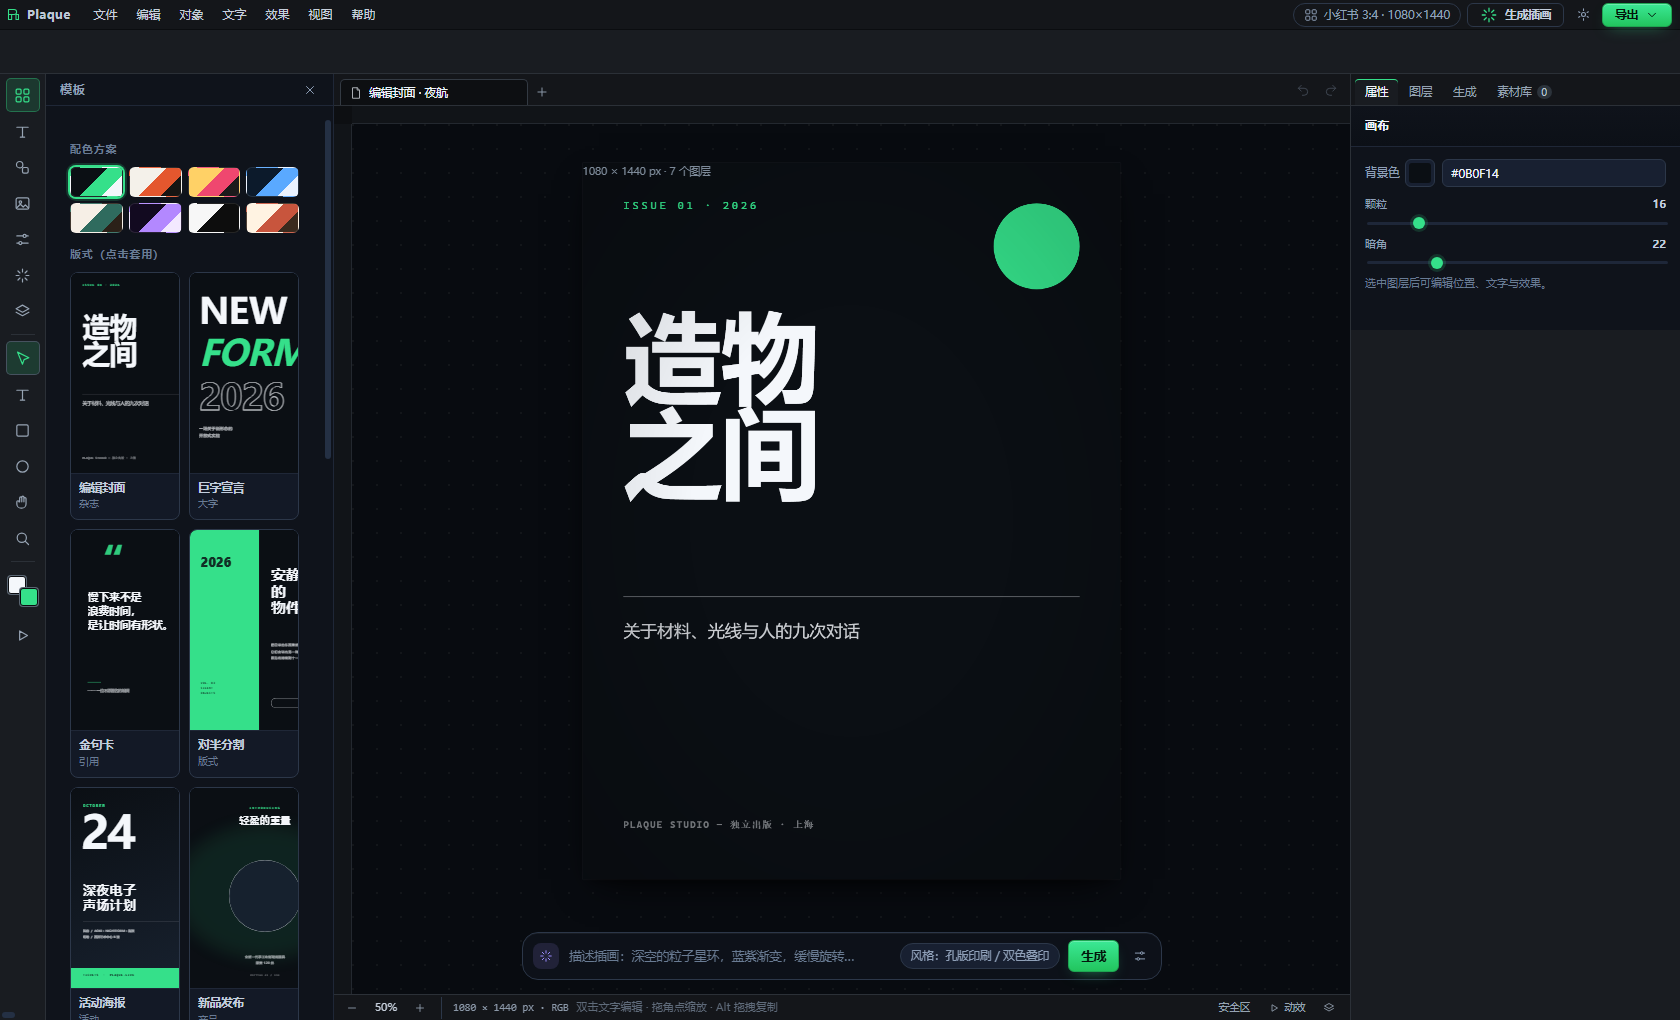
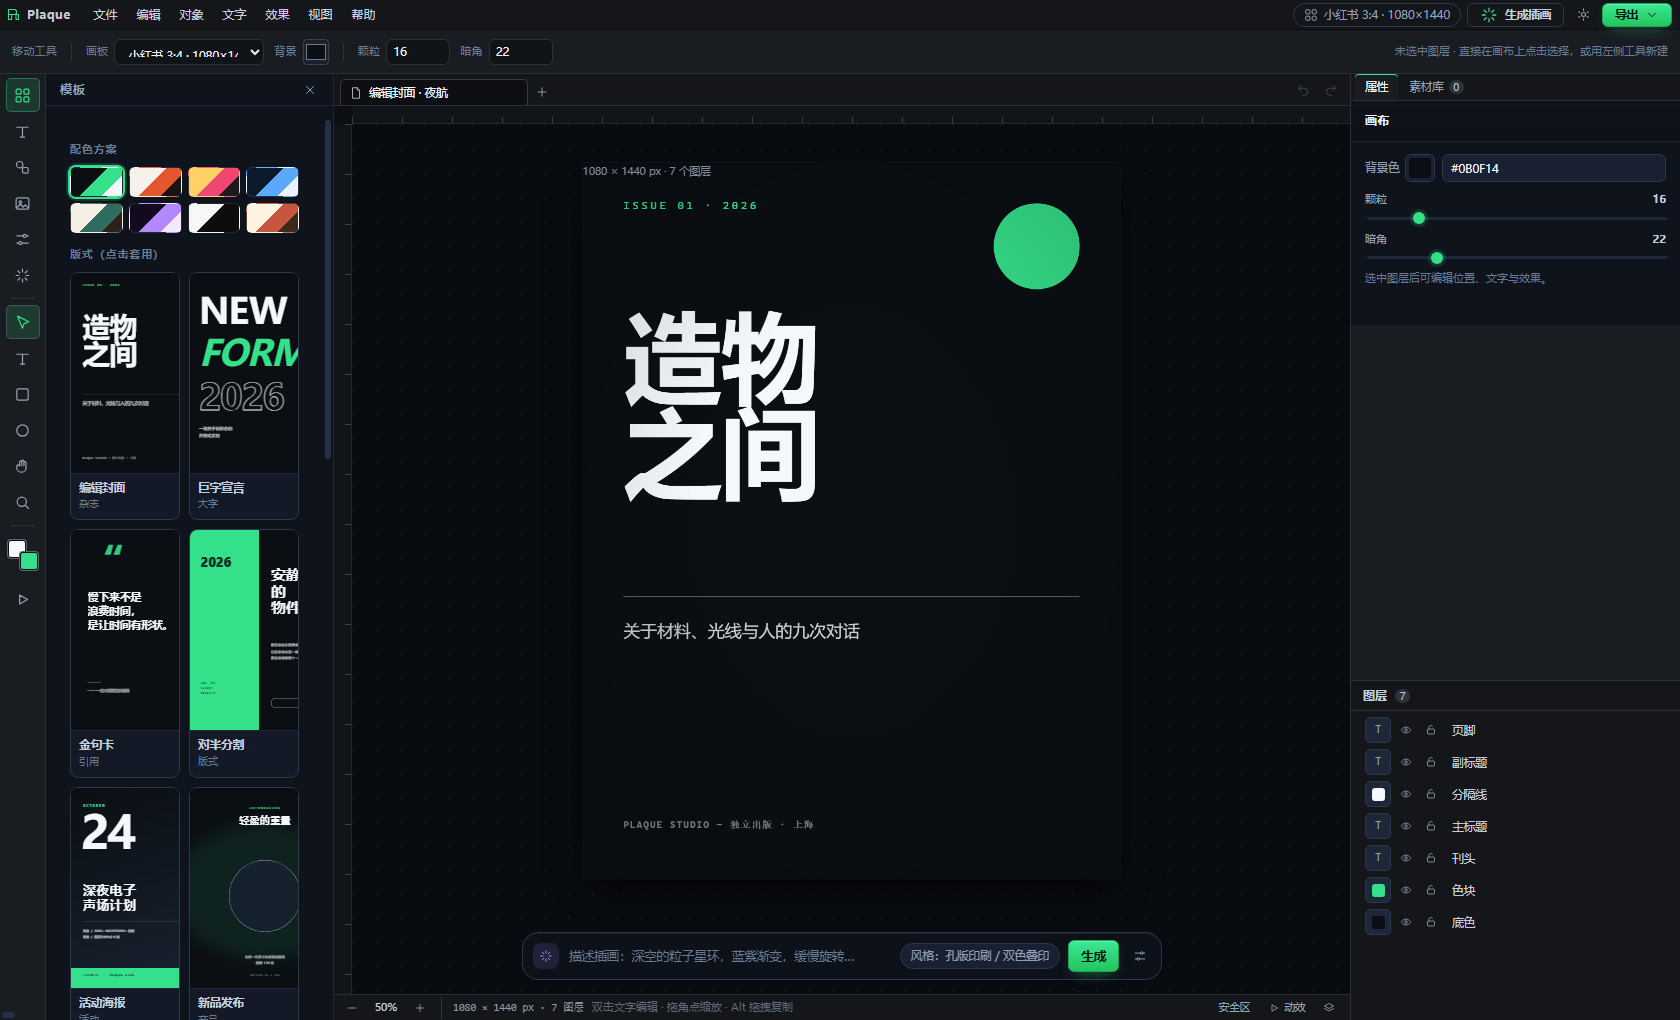
refactor(ui): 精简冗余入口 + 右侧面板上下分区（上 属性/素材库，下 常驻图层）

diff --git a/js/chrome.js b/js/chrome.js
@@ -316,19 +316,19 @@
 
   /* ---------------- 停靠面板 ---------------- */
   CH.setTab = function (name) {
+    if (name === 'layers') name = 'props';   // 图层区已常驻下方，不再作为标签
+    if (name === 'gen') name = 'props';
     CH.tab = name;
     $$('.dr-tab').forEach((t) => t.classList.toggle('is-active', t.dataset.tab === name));
     $$('.dr-pane').forEach((p) => p.classList.toggle('is-active', p.dataset.pane === name));
     const app = $('#app');
     if (app) { app.classList.remove('dock-closed'); }
-    if (name === 'layers') CH.renderLayers();
     if (name === 'arts') PANELS.renderDock();
   };
 
   CH.renderLayers = function () {
-    const host = $('#layersHost');
-    if (!host || !Store.doc) return;
-    if (PANELS.renderInto) PANELS.renderInto('layersHost', 'layers');
+    if (!Store.doc) return;
+    if (PANELS.renderLayerList) PANELS.renderLayerList('layersHost');
   };
 
   /* ---------------- 画布工具行为 ---------------- */
@@ -392,11 +392,7 @@
 
   function bindTools() {
     $$('.tb-btn[data-tool]').forEach((b) => b.addEventListener('click', () => setTool(b.dataset.tool)));
-    $$('.rail-btn').forEach((b) => {
-      if (b.dataset.panel === 'layers') {
-        b.addEventListener('click', (e) => { e.stopPropagation(); CH.setTab('layers'); }, true);
-      }
-    });
+
     document.addEventListener('keydown', (e) => {
       const t = e.target;
       if (t && /input|textarea|select/i.test(t.tagName)) return;
@@ -412,6 +408,42 @@
     if (btn) btn.addEventListener('click', () => { $('#app').classList.toggle('dock-closed'); ED.fit(); });
   }
 
+  /* 上下分区拖拽（拖动条在属性区与图层区之间） */
+  function bindSplit() {
+    const split = $('#drSplit');
+    const dock = $('#dockRight');
+    if (!split || !dock) return;
+    let startY = 0, startH = 0, dragging = false;
+    const bottomH = () => {
+      const el = $('#drBottom');
+      return el ? el.getBoundingClientRect().height : 340;
+    };
+    split.addEventListener('pointerdown', (e) => {
+      dragging = true;
+      startY = e.clientY;
+      startH = bottomH();
+      split.setPointerCapture(e.pointerId);
+      document.body.style.cursor = 'row-resize';
+      e.preventDefault();
+    });
+    split.addEventListener('pointermove', (e) => {
+      if (!dragging) return;
+      const h = U.clamp(startH - (e.clientY - startY), 120, dock.getBoundingClientRect().height - 160);
+      dock.style.setProperty('--layers-h', Math.round(h) + 'px');
+    });
+    const stop = () => {
+      if (!dragging) return;
+      dragging = false;
+      document.body.style.cursor = '';
+      U.saveLS('layersH', Math.round(bottomH()));
+    };
+    split.addEventListener('pointerup', stop);
+    split.addEventListener('pointercancel', stop);
+
+    const saved = Number(U.loadLS('layersH', 0));
+    if (saved > 120) dock.style.setProperty('--layers-h', saved + 'px');
+  }
+
   /* ---------------- 初始化 ---------------- */
   CH.init = function () {
     bindMenus();
@@ -419,6 +451,7 @@
     bindTools();
     bindStageTools();
     bindToggle();
+    bindSplit();
     setTool('select');
     CH.obRender();
     CH.statusRender();
@@ -426,16 +459,19 @@
     const setTabByHash = () => CH.setTab('props');
     setTabByHash();
 
+    CH.renderLayers();
+
     Store.on('doc', () => {
       CH.obRender();
       CH.statusRender();
-      if (CH.tab === 'layers') CH.renderLayers();
+      CH.renderLayers();
     });
     Store.on('sel', () => {
       CH.obRender();
       CH.statusRender();
+      CH.renderLayers();
     });
-    Store.on('history', () => CH.statusRender());
+    Store.on('history', () => { CH.statusRender(); CH.renderLayers(); });
 
     const zoomNow = ED.applyZoom;
     if (typeof zoomNow === 'function') {
@@ -453,3 +489,5 @@
 
   window.CHROME = CH;
 })();
+
+

diff --git a/index.html b/index.html
@@ -110,7 +110,6 @@
       <button class="rail-btn" data-panel="image" data-tip="图片"><svg class="i"><use href="#i-image"/></svg><span>图片</span></button>
       <button class="rail-btn" data-panel="effects" data-tip="特效"><svg class="i"><use href="#i-sliders"/></svg><span>效果</span></button>
       <button class="rail-btn rail-ai" data-panel="ai" data-tip="AI 插画"><svg class="i"><use href="#i-sparkle"/></svg><span>AI 插画</span></button>
-      <button class="rail-btn" data-panel="layers" data-tip="图层"><svg class="i"><use href="#i-layers"/></svg><span>图层</span></button>
       <span class="tb-sep"></span>
       <button class="tb-btn is-on" data-tool="select" data-tip="移动工具 (V)"><svg class="i"><use href="#i-arrow"/></svg></button>
       <button class="tb-btn" data-tool="text" data-tip="文字工具 (T)"><svg class="i"><use href="#i-type"/></svg></button>
@@ -188,35 +187,27 @@
       </footer>
     </main>
 
-    <!-- 右侧停靠面板 -->
+    <!-- 右侧停靠面板：上半区 属性/素材库，下半区 常驻图层 -->
     <aside class="dockright" id="dockRight">
-      <div class="dr-tabs" id="drTabs" role="tablist">
-        <button class="dr-tab is-active" data-tab="props">属性</button>
-        <button class="dr-tab" data-tab="layers">图层</button>
-        <button class="dr-tab" data-tab="gen">生成</button>
-        <button class="dr-tab" data-tab="arts">素材库<span class="dr-count" id="dockCount">0</span></button>
+      <div class="dr-top">
+        <div class="dr-tabs" id="drTabs" role="tablist">
+          <button class="dr-tab is-active" data-tab="props">属性</button>
+          <button class="dr-tab" data-tab="arts">素材库<span class="dr-count" id="dockCount">0</span></button>
+        </div>
+        <div class="dr-body">
+          <div class="dr-pane is-active" data-pane="props"><aside class="inspector" id="inspector" aria-label="属性面板"></aside></div>
+          <div class="dr-pane" data-pane="arts">
+            <div class="dock-head"><b>素材库</b><span class="dock-count" id="dockCount2">0</span></div>
+            <div class="dock-list dock-list-v" id="dockList"></div>
+          </div>
+        </div>
       </div>
-      <div class="dr-body">
-        <div class="dr-pane is-active" data-pane="props"><aside class="inspector" id="inspector" aria-label="属性面板"></aside></div>
-        <div class="dr-pane" data-pane="layers"><div class="inspector" id="layersHost"></div></div>
-        <div class="dr-pane" data-pane="gen">
-          <section class="gen-card" id="genCard">
-            <header class="gen-head">
-              <span class="gen-title"><svg class="i sm accent"><use href="#i-sparkle"/></svg>生成插画</span>
-              <span class="gen-model" id="genModel">本地算法</span>
-            </header>
-            <textarea id="genBrief" rows="3" placeholder="一句话描述，回车生成"></textarea>
-            <div class="gen-foot">
-              <select id="genStyle" aria-label="风格"></select>
-              <button class="btn primary sm" id="genRun">生成</button>
-            </div>
-            <p class="gen-tip">插画由大模型写 Canvas 代码生成，可播放、可导出视频。</p>
-          </section>
+      <div class="dr-split" id="drSplit" title="拖动调整高度"></div>
+      <div class="dr-bottom" id="drBottom">
+        <div class="dr-bottom-head">
+          <b>图层</b><span class="dr-count" id="layerCount">0</span>
         </div>
-        <div class="dr-pane" data-pane="arts">
-          <div class="dock-head"><b>素材库</b><span class="dock-count" id="dockCount2">0</span></div>
-          <div class="dock-list dock-list-v" id="dockList"></div>
-        </div>
+        <div class="layers-scroll" id="layersHost"></div>
       </div>
     </aside>
   </div>

diff --git a/js/panels.js b/js/panels.js
@@ -551,11 +551,7 @@
     const doc = Store.doc;
 
     const s0 = sec('AI 编程插画');
-    const cta = mk('button', 'btn primary block');
-    cta.innerHTML = svg('i-sparkle') + '打开生成器';
-    cta.addEventListener('click', () => openAi());
-    s0.appendChild(cta);
-    s0.appendChild(mk('p', 'p-tip', '插画由大模型直接写 Canvas 代码，不是文生图：可无限缩放、能播动画、能录成视频。'));
+    s0.appendChild(mk('p', 'p-tip', '插画由大模型直接写 Canvas 代码，不是文生图：可无限缩放、能播动画、能录成视频。完整设置走顶部「生成插画」或画布下缘的 prompt 条。'));
     box.appendChild(s0);
 
     const s1 = sec('本地算法插画（无需 Key）');
@@ -610,21 +606,14 @@
   /* =========================================================
      面板：图层
      ========================================================= */
-  function panelLayers() {
+  /* 图层列表（供「图层」停靠区与面板共用） */
+  function buildLayerList() {
     const doc = Store.doc;
-    const box = mk('div', 'p-stack');
-
-    const s0 = sec('画布');
-    s0.appendChild(color('背景色', doc.canvas.bg, (v) => canvasPatch({ bg: v })));
-    s0.appendChild(select('画板尺寸', DATA.FRAMES.map((f) => ({ id: f.id, name: f.name + ' · ' + f.w + '×' + f.h })), doc.frameId,
-      (v) => { Store.setFrame(DATA.frameById(v)); ED.fit(); PANELS.repaint(); }));
-    box.appendChild(s0);
-
-    const s1 = sec('图层（自下而上）');
     const list = mk('div', 'layer-list');
     const layers = doc.layers.slice().reverse();
     if (!layers.length) {
       list.appendChild(mk('p', 'p-tip', '还没有图层。从「模板」套个版式，或从「元素 / 文字」添加。'));
+      return list;
     }
     layers.forEach((l) => {
       const r = mk('div', 'layer-row' + (Store.sel.indexOf(l.id) >= 0 ? ' is-on' : ''));
@@ -676,7 +665,21 @@
       });
       list.appendChild(r);
     });
-    s1.appendChild(list);
+    return list;
+  }
+
+  function panelLayers() {
+    const doc = Store.doc;
+    const box = mk('div', 'p-stack');
+
+    const s0 = sec('画布');
+    s0.appendChild(color('背景色', doc.canvas.bg, (v) => canvasPatch({ bg: v })));
+    s0.appendChild(select('画板尺寸', DATA.FRAMES.map((f) => ({ id: f.id, name: f.name + ' · ' + f.w + '×' + f.h })), doc.frameId,
+      (v) => { Store.setFrame(DATA.frameById(v)); ED.fit(); PANELS.repaint(); }));
+    box.appendChild(s0);
+
+    const s1 = sec('图层（自下而上）');
+    s1.appendChild(buildLayerList());
     box.appendChild(s1);
 
     const s2 = sec('统计');
@@ -685,6 +688,20 @@
     box.appendChild(s2);
     return box;
   }
+
+  /* 只渲染图层列表到指定容器（右侧常驻「图层」区） */
+  PANELS.renderLayerList = function (hostId) {
+    const host = document.getElementById(hostId);
+    if (!host || !Store.doc) return;
+    const editing = document.activeElement && document.activeElement.classList
+      && document.activeElement.classList.contains('lr-name') && host.contains(document.activeElement);
+    if (!editing) {
+      host.innerHTML = '';
+      host.appendChild(buildLayerList());
+    }
+    const c = document.getElementById('layerCount');
+    if (c) c.textContent = String(Store.doc.layers.length);
+  };
 
   /* =========================================================
      面板路由

diff --git a/css/app.css b/css/app.css
@@ -1181,3 +1181,20 @@ kbd{
 .dr-pane .dock-item{width:100%;max-width:none}
 .dr-pane .dock-list-v{grid-template-columns:1fr 1fr;gap:8px}
 .dr-pane .dock-item em{display:block;overflow:hidden;text-overflow:ellipsis;white-space:nowrap;padding:2px 4px;font-style:normal}
+
+/* —— 右侧停靠区：上区 属性/素材库，下区常驻图层 —— */
+.dockright{display:grid;grid-template-rows:minmax(0,1fr) 0 var(--layers-h,340px);min-height:0}
+.dr-top{display:flex;flex-direction:column;min-height:0;overflow:hidden}
+.dr-body{flex:1 1 auto;min-height:0;position:relative}
+.dr-pane{position:absolute;inset:0;overflow:auto;display:none}
+.dr-pane.is-active{display:block}
+.dr-split{height:6px;margin-top:-3px;margin-bottom:-3px;cursor:row-resize;z-index:2;position:relative}
+.dr-split::after{content:'';position:absolute;left:0;right:0;top:2px;height:2px;background:transparent;transition:background .15s}
+.dr-split:hover::after{background:var(--accent)}
+.dr-bottom{display:flex;flex-direction:column;min-height:0;border-top:1px solid var(--chrome-line);background:var(--chrome)}
+.dr-bottom-head{display:flex;align-items:center;gap:8px;height:30px;padding:0 12px;border-bottom:1px solid var(--chrome-line);font-size:12px;color:#C7D2E0;flex:0 0 auto}
+.dr-bottom-head b{font-weight:600}
+.layers-scroll{flex:1 1 auto;min-height:0;overflow:auto;padding:4px 8px 8px}
+.layers-scroll .layer-list{display:flex;flex-direction:column;gap:2px}
+.layers-scroll .layer-row{height:30px}
+.dock-closed .dockright{display:none}

diff --git a/js/app.js b/js/app.js
@@ -224,6 +224,7 @@
     }
     const ps = $('#promptStyle');
     let styleIdx = 0;
+    const curStyle = () => (styles[styleIdx] && styles[styleIdx].id) || '';
     const paintStyle = () => {
       const s = styles[styleIdx];
       if (ps && s) ps.textContent = '风格：' + s.name;
@@ -252,16 +253,16 @@
 
     const pi = $('#promptInput');
     const run = $('#promptRun');
-    if (run) run.addEventListener('click', () => launch(pi && pi.value, gs && gs.value));
+    if (run) run.addEventListener('click', () => launch(pi && pi.value, curStyle()));
     if (pi) pi.addEventListener('keydown', (e) => {
-      if (e.key === 'Enter' && !e.isComposing) { e.preventDefault(); launch(pi.value, gs && gs.value); }
+      if (e.key === 'Enter' && !e.isComposing) { e.preventDefault(); launch(pi.value, curStyle()); }
     });
     const more = $('#promptMore');
     if (more) more.addEventListener('click', () => window.openAi(pi ? pi.value : ''));
 
     const gb = $('#genBrief');
     const grun = $('#genRun');
-    const genRun = () => launch(gb && gb.value, gs && gs.value);
+    const genRun = () => launch(gb && gb.value, curStyle());
     if (grun) grun.addEventListener('click', genRun);
     if (gb) gb.addEventListener('keydown', (e) => {
       if (e.key === 'Enter' && !e.shiftKey && !e.isComposing) { e.preventDefault(); genRun(); }
@@ -397,4 +398,5 @@
 
   window.__BOOTED = () => booted;
 })();
+
 

diff --git a/README.md b/README.md
@@ -45,14 +45,22 @@ samples/              示例产物（一张 2× PNG，一个单文件网页）
 | --- | --- |
 | 菜单栏 30px | 文件 / 编辑 / 对象 / 文字 / 效果 / 视图 / 帮助，全部动作可点；右侧是画板尺寸、生成插画、设置、导出 |
 | 工具选项栏 44px | 跟着当前选中对象变：无选中＝画板尺寸/背景/颗粒/暗角；文字＝X·Y·W·H + 字体/字号/字重/颜色/特效/对齐；形状＝填充/形状/圆角/描边；图片＝适配/圆角；AI 图层＝时长/帧率/换一版/编辑代码 |
-| 工具箱 46px | 上组是素材类别（模板 / 文字 / 元素 / 图片 / 效果 / AI / 图层），下组是画布工具（移动 V、文字 T、矩形 U、椭圆 O、抓手 H、缩放 Z），底部前景/背景色块 |
+| 工具箱 46px | 上组是素材类别（模板 / 文字 / 元素 / 图片 / 效果 / AI），下组是画布工具（移动 V、文字 T、矩形 U、椭圆 O、抓手 H、缩放 Z），底部前景/背景色块 |
 | 素材面板 288px | 当前类别的素材库，可一键收起把空间还给画布 |
 | 文档窗口 | 文档标签（可直接改名）＋ 撤销/重做 ＋ 厘米标尺 ＋ 点阵画布 ＋ 画板阴影 ＋ 底部常驻 prompt 条 |
-| 停靠面板组 330px | 四个标签页：**属性** / **图层** / **生成** / **素材库**（生成过的插画点一下即插入） |
+| 停靠面板组 330px | 上下分区：上半区两个标签页 **属性** / **素材库**（生成过的插画点一下即插入）；下半区**常驻图层列表**，中间的分隔条可拖动调高度（记住上次位置） |
 | 状态栏 26px | 缩放 -/+、画板尺寸与图层数、当前选中项坐标、操作提示、安全区 / 动效预览开关、面板收起 |
 
 画板缩放会自动避开标尺、prompt 条与状态栏，永远完整可见；
 窗口 ≤1240px 隐藏素材面板，≤1080px 停靠面板组收窄，≤900px 只留画布 + 工具箱 + prompt 条。
+
+每个入口只保留一处，重复的都已合并：
+
+| 曾经的重复入口 | 现在的唯一入口 |
+| --- | --- |
+| 左侧「图层」按钮 + 右侧「图层」标签页 | 右侧下半区常驻图层（左侧按钮已删） |
+| 右侧「生成」标签页 + 画布 prompt 条 + 顶部「生成插画」 | prompt 条（快捷）+ 顶部「生成插画」（完整设置） |
+| AI 面板里「打开生成器」按钮 | 顶部「生成插画」 |
 
 ## 2. AI 插画（核心）
 
